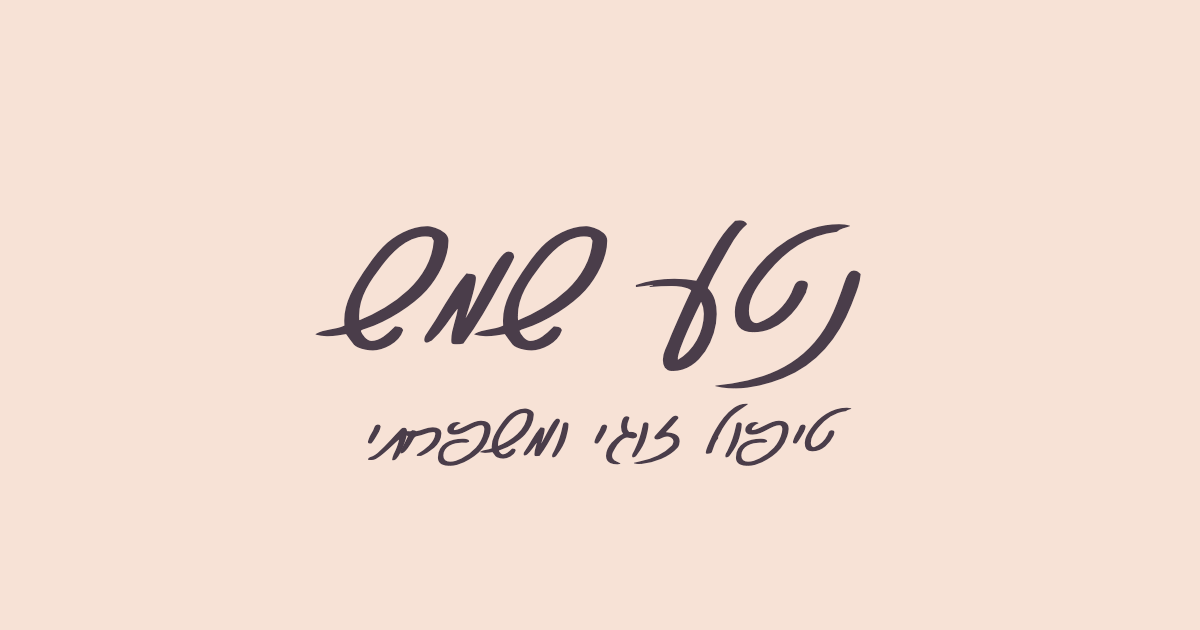
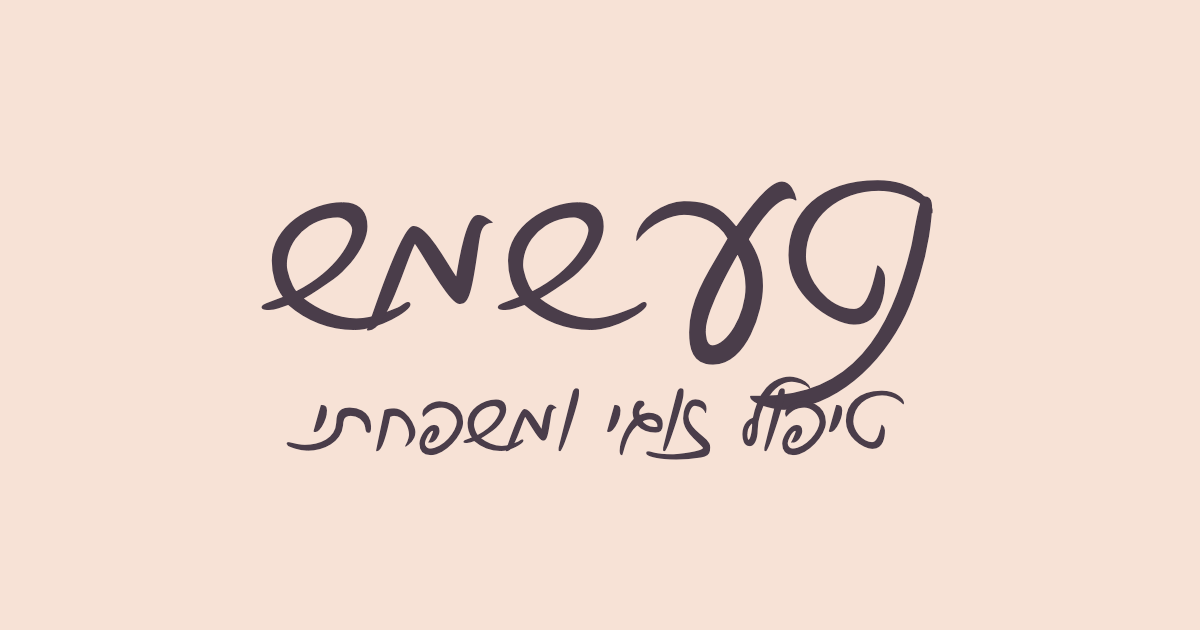
feat: switch to Elamy and Stanga fonts

Changed region(s): [[0.2158, 0.2714, 0.8017, 0.754]]

diff --git a/scripts/generate-logos.js b/scripts/generate-logos.js
@@ -7,7 +7,7 @@ async function generate() {
   const page = await browser.newPage();
 
   // Font data
-  const fontPath = path.join(__dirname, '../public/fonts/Dganit-Medium.woff2');
+  const fontPath = path.join(__dirname, '../public/fonts/Elamy-Bold.woff2');
   const fontData = fs.readFileSync(fontPath).toString('base64');
   
   const htmlTemplate = (width, height, content, fontSize) => `
@@ -16,7 +16,7 @@ async function generate() {
     <head>
       <style>
         @font-face {
-          font-family: 'Dganit';
+          font-family: 'Elamy';
           src: url('data:font/woff2;base64,${fontData}') format('woff2');
         }
         body {
@@ -28,7 +28,7 @@ async function generate() {
           display: flex;
           align-items: center;
           justify-content: center;
-          font-family: 'Dganit', sans-serif;
+          font-family: 'Elamy', sans-serif;
           color: #4A3D4A;
         }
         .content {

diff --git a/src/app/layout.tsx b/src/app/layout.tsx
@@ -4,11 +4,6 @@ import "../../canva-source/canva-fonts.css";
 import "../../canva-source/styles.css";
 import "./globals.css";
 
-const dganit = localFont({
-  src: "../../public/fonts/Dganit-Medium.woff2",
-  variable: "--font-dganit",
-  weight: "500",
-});
 
 const elamy = localFont({
   src: [
@@ -42,7 +37,7 @@ import ViewportScale from "@/components/ViewportScale";
 
 export default function RootLayout({ children }: { children: React.ReactNode }) {
   return (
-    <html lang="he" dir="rtl" className={`${dganit.variable} ${elamy.variable} ${stanga.variable}`}>
+    <html lang="he" dir="rtl" className={`${elamy.variable} ${stanga.variable}`}>
       <body>
         {children}
         <ViewportScale />

diff --git a/src/app/globals.css b/src/app/globals.css
@@ -6,13 +6,12 @@
   --color-canva-light: #C2ADBB;
   --color-canva-bg: #F7E2D6;
 
-  --font-dganit: var(--font-dganit), sans-serif;
   --font-elamy: var(--font-elamy), sans-serif;
   --font-stanga: var(--font-stanga), sans-serif;
 
   --font-canva-primary: var(--font-stanga), sans-serif;
-  --font-canva-secondary: var(--font-elamy), serif;
-  --font-canva-accent: var(--font-dganit), cursive;
+  --font-canva-secondary: var(--font-stanga), sans-serif;
+  --font-canva-accent: var(--font-elamy), cursive;
 }
 
 :root {
